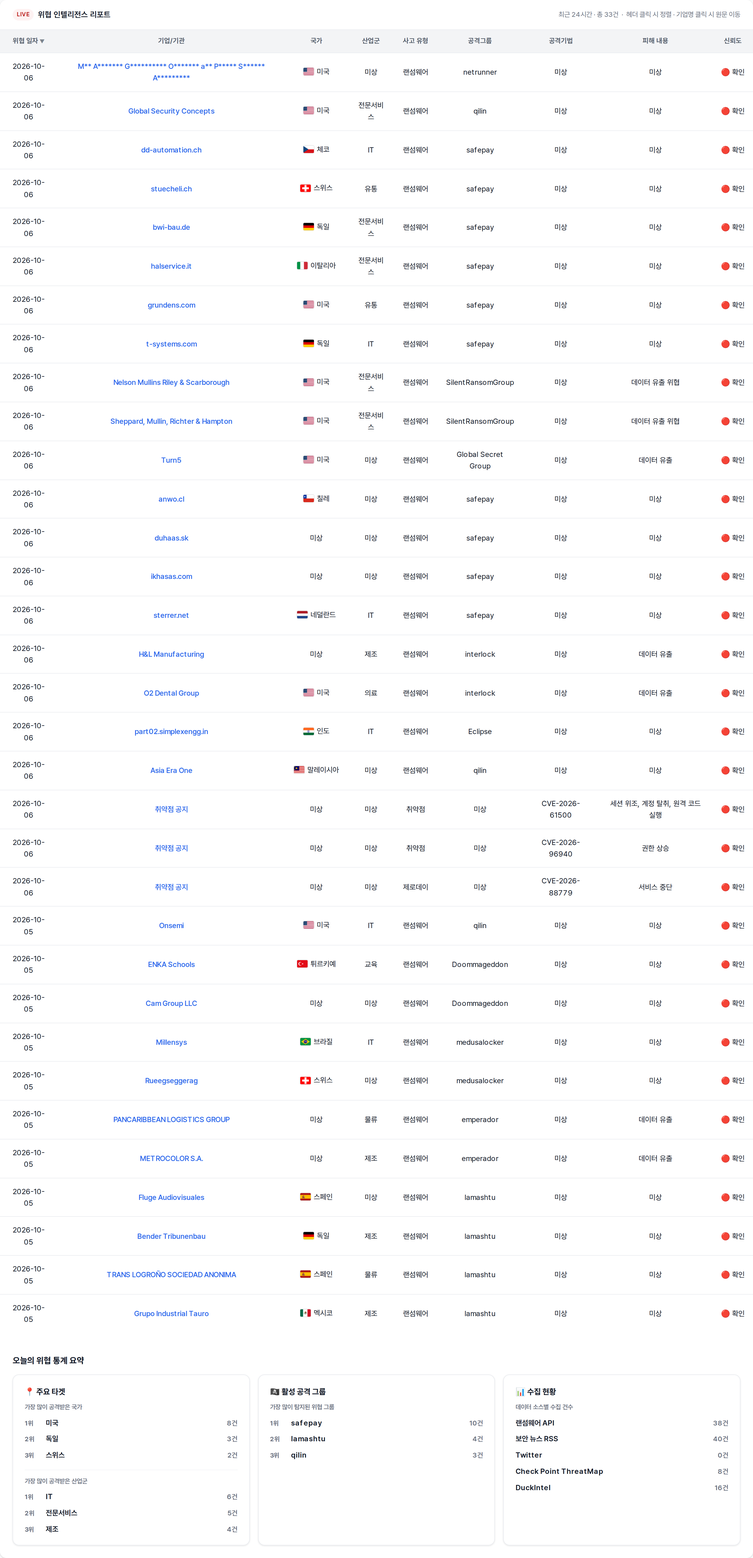
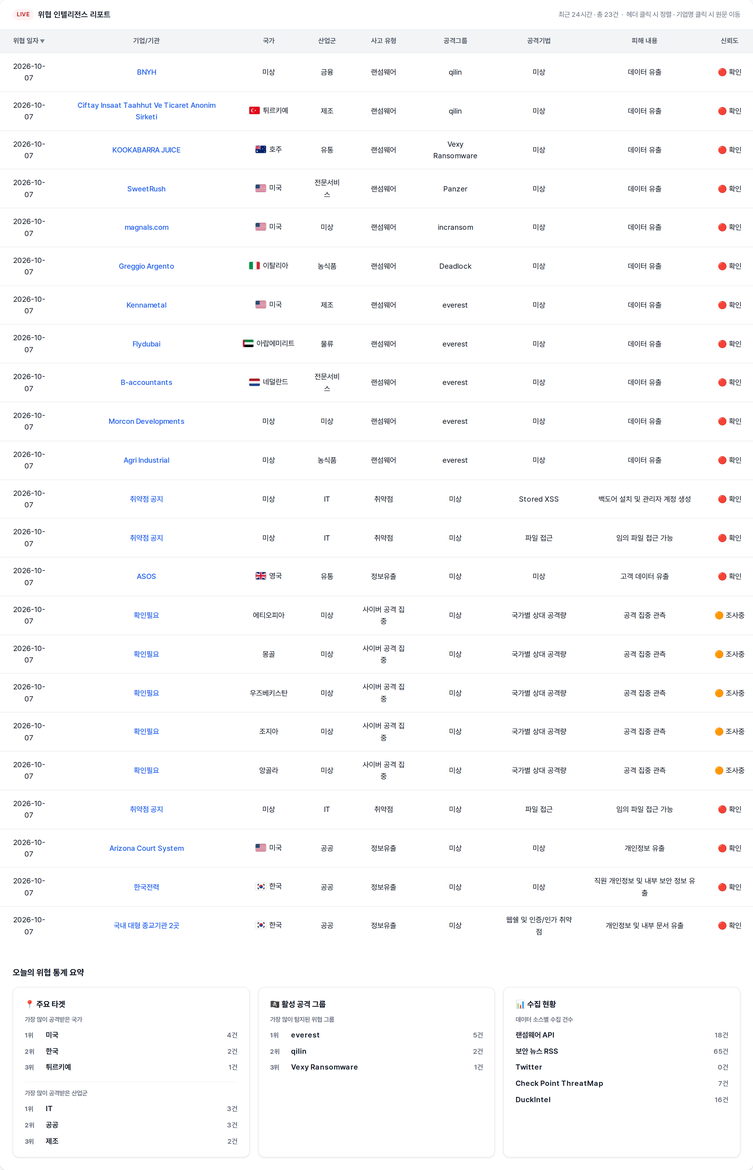
deploy: 9c533ad8fcaa3f846a31aadab046301a26f1192c

diff --git a/index.html b/index.html
@@ -3,7 +3,7 @@
 <head>
   <meta charset="UTF-8" />
   <meta name="viewport" content="width=device-width, initial-scale=1.0" />
-  <title>🚨 2026년 10월 06일 국내/해외 사이버 위협 현황</title>
+  <title>🚨 2026년 10월 07일 국내/해외 사이버 위협 현황</title>
   <link rel="preconnect" href="https://cdn.jsdelivr.net" />
   <link href="https://cdn.jsdelivr.net/gh/orioncactus/pretendard/dist/web/static/pretendard.css" rel="stylesheet" />
   <style>
@@ -253,7 +253,7 @@
 </head>
 <body>
   <div class="page-header">
-    <h1 class="page-title">🚨 2026년 10월 06일 국내/해외 사이버 위협 현황</h1>
+    <h1 class="page-title">🚨 2026년 10월 07일 국내/해외 사이버 위협 현황</h1>
   </div>
 
   <div class="dashboard">
@@ -261,45 +261,35 @@
     <div class="card-header">
       <span class="badge">LIVE</span>
       <span class="card-title">위협 인텔리전스 리포트</span>
-      <span class="card-count">최근 24시간 · 총 33건 &nbsp;·&nbsp; 헤더 클릭 시 정렬 · 기업명 클릭 시 원문 이동</span>
+      <span class="card-count">최근 24시간 · 총 23건 &nbsp;·&nbsp; 헤더 클릭 시 정렬 · 기업명 클릭 시 원문 이동</span>
     </div>
     <div class="table-wrap" style="overflow-x: auto; -webkit-overflow-scrolling: touch;">
       <table id="threat-table">
         <thead><tr><th onclick="sortTable(0)" data-col="0" class="sort-desc">위협 일자</th><th onclick="sortTable(1)" data-col="1">기업/기관</th><th onclick="sortTable(2)" data-col="2">국가</th><th onclick="sortTable(3)" data-col="3">산업군</th><th onclick="sortTable(4)" data-col="4">사고 유형</th><th onclick="sortTable(5)" data-col="5">공격그룹</th><th onclick="sortTable(6)" data-col="6">공격기법</th><th onclick="sortTable(7)" data-col="7">피해 내용</th><th onclick="sortTable(8)" data-col="8">신뢰도</th></tr></thead>
         <tbody>
-<tr><td>2026-10-06</td><td><a href="https://www.ransomware.live/id/TSoqIEEqKioqKioqIEcqKioqKioqKioqIE8qKioqKioqIGEqKiBQKioqKiogUyoqKioqKiBBKioqKioqKioqQG5ldHJ1bm5lcg==" target="_blank" rel="noopener noreferrer">M** A******* G********** O******* a** P***** S****** A*********</a></td><td class="country"><span class="country-cell"><img class="flag" src="https://flagcdn.com/w40/us.png" alt="미국" width="20" height="14" />미국</span></td><td>미상</td><td>랜섬웨어</td><td>netrunner</td><td>미상</td><td>미상</td><td>🔴 확인</td></tr>
-<tr><td>2026-10-06</td><td><a href="https://www.ransomware.live/id/R2xvYmFsIFNlY3VyaXR5IENvbmNlcHRzQHFpbGlu" target="_blank" rel="noopener noreferrer">Global Security Concepts</a></td><td class="country"><span class="country-cell"><img class="flag" src="https://flagcdn.com/w40/us.png" alt="미국" width="20" height="14" />미국</span></td><td>전문서비스</td><td>랜섬웨어</td><td>qilin</td><td>미상</td><td>미상</td><td>🔴 확인</td></tr>
-<tr><td>2026-10-06</td><td><a href="https://www.ransomware.live/id/ZGQtYXV0b21hdGlvbi5jaEBzYWZlcGF5" target="_blank" rel="noopener noreferrer">dd-automation.ch</a></td><td class="country"><span class="country-cell"><img class="flag" src="https://flagcdn.com/w40/cz.png" alt="체코" width="20" height="14" />체코</span></td><td>IT</td><td>랜섬웨어</td><td>safepay</td><td>미상</td><td>미상</td><td>🔴 확인</td></tr>
-<tr><td>2026-10-06</td><td><a href="https://www.ransomware.live/id/c3R1ZWNoZWxpLmNoQHNhZmVwYXk=" target="_blank" rel="noopener noreferrer">stuecheli.ch</a></td><td class="country"><span class="country-cell"><img class="flag" src="https://flagcdn.com/w40/ch.png" alt="스위스" width="20" height="14" />스위스</span></td><td>유통</td><td>랜섬웨어</td><td>safepay</td><td>미상</td><td>미상</td><td>🔴 확인</td></tr>
-<tr><td>2026-10-06</td><td><a href="https://www.ransomware.live/id/YndpLWJhdS5kZUBzYWZlcGF5" target="_blank" rel="noopener noreferrer">bwi-bau.de</a></td><td class="country"><span class="country-cell"><img class="flag" src="https://flagcdn.com/w40/de.png" alt="독일" width="20" height="14" />독일</span></td><td>전문서비스</td><td>랜섬웨어</td><td>safepay</td><td>미상</td><td>미상</td><td>🔴 확인</td></tr>
-<tr><td>2026-10-06</td><td><a href="https://www.ransomware.live/id/aGFsc2VydmljZS5pdEBzYWZlcGF5" target="_blank" rel="noopener noreferrer">halservice.it</a></td><td class="country"><span class="country-cell"><img class="flag" src="https://flagcdn.com/w40/it.png" alt="이탈리아" width="20" height="14" />이탈리아</span></td><td>전문서비스</td><td>랜섬웨어</td><td>safepay</td><td>미상</td><td>미상</td><td>🔴 확인</td></tr>
-<tr><td>2026-10-06</td><td><a href="https://www.ransomware.live/id/Z3J1bmRlbnMuY29tQHNhZmVwYXk=" target="_blank" rel="noopener noreferrer">grundens.com</a></td><td class="country"><span class="country-cell"><img class="flag" src="https://flagcdn.com/w40/us.png" alt="미국" width="20" height="14" />미국</span></td><td>유통</td><td>랜섬웨어</td><td>safepay</td><td>미상</td><td>미상</td><td>🔴 확인</td></tr>
-<tr><td>2026-10-06</td><td><a href="https://www.ransomware.live/id/dC1zeXN0ZW1zLmNvbUBzYWZlcGF5" target="_blank" rel="noopener noreferrer">t-systems.com</a></td><td class="country"><span class="country-cell"><img class="flag" src="https://flagcdn.com/w40/de.png" alt="독일" width="20" height="14" />독일</span></td><td>IT</td><td>랜섬웨어</td><td>safepay</td><td>미상</td><td>미상</td><td>🔴 확인</td></tr>
-<tr><td>2026-10-06</td><td><a href="https://www.ransomware.live/id/TmVsc29uIE11bGxpbnMgUmlsZXkgJiBTY2FyYm9yb3VnaEBTaWxlbnRSYW5zb21Hcm91cA==" target="_blank" rel="noopener noreferrer">Nelson Mullins Riley &amp; Scarborough</a></td><td class="country"><span class="country-cell"><img class="flag" src="https://flagcdn.com/w40/us.png" alt="미국" width="20" height="14" />미국</span></td><td>전문서비스</td><td>랜섬웨어</td><td>SilentRansomGroup</td><td>미상</td><td>데이터 유출 위협</td><td>🔴 확인</td></tr>
-<tr><td>2026-10-06</td><td><a href="https://www.ransomware.live/id/U2hlcHBhcmQsIE11bGxpbiwgUmljaHRlciAmIEhhbXB0b25AU2lsZW50UmFuc29tR3JvdXA=" target="_blank" rel="noopener noreferrer">Sheppard, Mullin, Richter &amp; Hampton</a></td><td class="country"><span class="country-cell"><img class="flag" src="https://flagcdn.com/w40/us.png" alt="미국" width="20" height="14" />미국</span></td><td>전문서비스</td><td>랜섬웨어</td><td>SilentRansomGroup</td><td>미상</td><td>데이터 유출 위협</td><td>🔴 확인</td></tr>
-<tr><td>2026-10-06</td><td><a href="https://www.ransomware.live/id/VHVybjVAR2xvYmFsIFNlY3JldCBHcm91cA==" target="_blank" rel="noopener noreferrer">Turn5</a></td><td class="country"><span class="country-cell"><img class="flag" src="https://flagcdn.com/w40/us.png" alt="미국" width="20" height="14" />미국</span></td><td>미상</td><td>랜섬웨어</td><td>Global Secret Group</td><td>미상</td><td>데이터 유출</td><td>🔴 확인</td></tr>
-<tr><td>2026-10-06</td><td><a href="https://www.ransomware.live/id/YW53by5jbEBzYWZlcGF5" target="_blank" rel="noopener noreferrer">anwo.cl</a></td><td class="country"><span class="country-cell"><img class="flag" src="https://flagcdn.com/w40/cl.png" alt="칠레" width="20" height="14" />칠레</span></td><td>미상</td><td>랜섬웨어</td><td>safepay</td><td>미상</td><td>미상</td><td>🔴 확인</td></tr>
-<tr><td>2026-10-06</td><td><a href="https://www.ransomware.live/id/ZHVoYWFzLnNrQHNhZmVwYXk=" target="_blank" rel="noopener noreferrer">duhaas.sk</a></td><td class="country"><span class="country-cell">미상</span></td><td>미상</td><td>랜섬웨어</td><td>safepay</td><td>미상</td><td>미상</td><td>🔴 확인</td></tr>
-<tr><td>2026-10-06</td><td><a href="https://www.ransomware.live/id/aWtoYXNhcy5jb21Ac2FmZXBheQ==" target="_blank" rel="noopener noreferrer">ikhasas.com</a></td><td class="country"><span class="country-cell">미상</span></td><td>미상</td><td>랜섬웨어</td><td>safepay</td><td>미상</td><td>미상</td><td>🔴 확인</td></tr>
-<tr><td>2026-10-06</td><td><a href="https://www.ransomware.live/id/c3RlcnJlci5uZXRAc2FmZXBheQ==" target="_blank" rel="noopener noreferrer">sterrer.net</a></td><td class="country"><span class="country-cell"><img class="flag" src="https://flagcdn.com/w40/nl.png" alt="네덜란드" width="20" height="14" />네덜란드</span></td><td>IT</td><td>랜섬웨어</td><td>safepay</td><td>미상</td><td>미상</td><td>🔴 확인</td></tr>
-<tr><td>2026-10-06</td><td><a href="https://www.ransomware.live/id/SCZMIE1hbnVmYWN0dXJpbmdAaW50ZXJsb2Nr" target="_blank" rel="noopener noreferrer">H&amp;L Manufacturing</a></td><td class="country"><span class="country-cell">미상</span></td><td>제조</td><td>랜섬웨어</td><td>interlock</td><td>미상</td><td>데이터 유출</td><td>🔴 확인</td></tr>
-<tr><td>2026-10-06</td><td><a href="https://www.ransomware.live/id/TzIgRGVudGFsIEdyb3VwQGludGVybG9jaw==" target="_blank" rel="noopener noreferrer">O2 Dental Group</a></td><td class="country"><span class="country-cell"><img class="flag" src="https://flagcdn.com/w40/us.png" alt="미국" width="20" height="14" />미국</span></td><td>의료</td><td>랜섬웨어</td><td>interlock</td><td>미상</td><td>데이터 유출</td><td>🔴 확인</td></tr>
-<tr><td>2026-10-06</td><td><a href="https://www.ransomware.live/id/cGFydDAyLnNpbXBsZXhlbmdnLmluQEVjbGlwc2U=" target="_blank" rel="noopener noreferrer">part02.simplexengg.in</a></td><td class="country"><span class="country-cell"><img class="flag" src="https://flagcdn.com/w40/in.png" alt="인도" width="20" height="14" />인도</span></td><td>IT</td><td>랜섬웨어</td><td>Eclipse</td><td>미상</td><td>미상</td><td>🔴 확인</td></tr>
-<tr><td>2026-10-06</td><td><a href="https://www.ransomware.live/id/QXNpYSBFcmEgT25lQHFpbGlu" target="_blank" rel="noopener noreferrer">Asia Era One</a></td><td class="country"><span class="country-cell"><img class="flag" src="https://flagcdn.com/w40/my.png" alt="말레이시아" width="20" height="14" />말레이시아</span></td><td>미상</td><td>랜섬웨어</td><td>qilin</td><td>미상</td><td>미상</td><td>🔴 확인</td></tr>
-<tr><td>2026-10-06</td><td><a href="https://www.bleepingcomputer.com/news/security/rejetto-hfs-servers-now-actively-scanned-for-critical-rce-flaw/" target="_blank" rel="noopener noreferrer">취약점 공지</a></td><td class="country"><span class="country-cell">미상</span></td><td>미상</td><td>취약점</td><td>미상</td><td>CVE-2026-61500</td><td>세션 위조, 계정 탈취, 원격 코드 실행</td><td>🔴 확인</td></tr>
-<tr><td>2026-10-06</td><td><a href="https://thehackernews.com/2026/10/microsoft-exchange-flaw-lets.html" target="_blank" rel="noopener noreferrer">취약점 공지</a></td><td class="country"><span class="country-cell">미상</span></td><td>미상</td><td>취약점</td><td>미상</td><td>CVE-2026-96940</td><td>권한 상승</td><td>🔴 확인</td></tr>
-<tr><td>2026-10-06</td><td><a href="https://therecord.media/us-australia-warn-of-latest-citrix-vulnerability" target="_blank" rel="noopener noreferrer">취약점 공지</a></td><td class="country"><span class="country-cell">미상</span></td><td>미상</td><td>제로데이</td><td>미상</td><td>CVE-2026-88779</td><td>서비스 중단</td><td>🔴 확인</td></tr>
-<tr><td>2026-10-05</td><td><a href="https://www.ransomware.live/id/T25zZW1pQHFpbGlu" target="_blank" rel="noopener noreferrer">Onsemi</a></td><td class="country"><span class="country-cell"><img class="flag" src="https://flagcdn.com/w40/us.png" alt="미국" width="20" height="14" />미국</span></td><td>IT</td><td>랜섬웨어</td><td>qilin</td><td>미상</td><td>미상</td><td>🔴 확인</td></tr>
-<tr><td>2026-10-05</td><td><a href="https://www.ransomware.live/id/RU5LQSBTY2hvb2xzQERvb21tYWdlZGRvbg==" target="_blank" rel="noopener noreferrer">ENKA Schools</a></td><td class="country"><span class="country-cell"><img class="flag" src="https://flagcdn.com/w40/tr.png" alt="튀르키예" width="20" height="14" />튀르키예</span></td><td>교육</td><td>랜섬웨어</td><td>Doommageddon</td><td>미상</td><td>미상</td><td>🔴 확인</td></tr>
-<tr><td>2026-10-05</td><td><a href="https://www.ransomware.live/id/Q2FtIEdyb3VwIExMQ0BEb29tbWFnZWRkb24=" target="_blank" rel="noopener noreferrer">Cam Group LLC</a></td><td class="country"><span class="country-cell">미상</span></td><td>미상</td><td>랜섬웨어</td><td>Doommageddon</td><td>미상</td><td>미상</td><td>🔴 확인</td></tr>
-<tr><td>2026-10-05</td><td><a href="https://www.ransomware.live/id/TWlsbGVuc3lzQG1lZHVzYWxvY2tlcg==" target="_blank" rel="noopener noreferrer">Millensys</a></td><td class="country"><span class="country-cell"><img class="flag" src="https://flagcdn.com/w40/br.png" alt="브라질" width="20" height="14" />브라질</span></td><td>IT</td><td>랜섬웨어</td><td>medusalocker</td><td>미상</td><td>미상</td><td>🔴 확인</td></tr>
-<tr><td>2026-10-05</td><td><a href="https://www.ransomware.live/id/UnVlZWdzZWdnZXJhZ0BtZWR1c2Fsb2NrZXI=" target="_blank" rel="noopener noreferrer">Rueegseggerag</a></td><td class="country"><span class="country-cell"><img class="flag" src="https://flagcdn.com/w40/ch.png" alt="스위스" width="20" height="14" />스위스</span></td><td>미상</td><td>랜섬웨어</td><td>medusalocker</td><td>미상</td><td>미상</td><td>🔴 확인</td></tr>
-<tr><td>2026-10-05</td><td><a href="https://www.ransomware.live/id/UEFOQ0FSSUJCRUFOIExPR0lTVElDUyBHUk9VUEBlbXBlcmFkb3I=" target="_blank" rel="noopener noreferrer">PANCARIBBEAN LOGISTICS GROUP</a></td><td class="country"><span class="country-cell">미상</span></td><td>물류</td><td>랜섬웨어</td><td>emperador</td><td>미상</td><td>데이터 유출</td><td>🔴 확인</td></tr>
-<tr><td>2026-10-05</td><td><a href="https://www.ransomware.live/id/TUVUUk9DT0xPUiBTLkEuQGVtcGVyYWRvcg==" target="_blank" rel="noopener noreferrer">METROCOLOR S.A.</a></td><td class="country"><span class="country-cell">미상</span></td><td>제조</td><td>랜섬웨어</td><td>emperador</td><td>미상</td><td>데이터 유출</td><td>🔴 확인</td></tr>
-<tr><td>2026-10-05</td><td><a href="https://www.ransomware.live/id/Rmx1Z2UgQXVkaW92aXN1YWxlc0BsYW1hc2h0dQ==" target="_blank" rel="noopener noreferrer">Fluge Audiovisuales</a></td><td class="country"><span class="country-cell"><img class="flag" src="https://flagcdn.com/w40/es.png" alt="스페인" width="20" height="14" />스페인</span></td><td>미상</td><td>랜섬웨어</td><td>lamashtu</td><td>미상</td><td>미상</td><td>🔴 확인</td></tr>
-<tr><td>2026-10-05</td><td><a href="https://www.ransomware.live/id/QmVuZGVyIFRyaWJ1bmVuYmF1QGxhbWFzaHR1" target="_blank" rel="noopener noreferrer">Bender Tribunenbau</a></td><td class="country"><span class="country-cell"><img class="flag" src="https://flagcdn.com/w40/de.png" alt="독일" width="20" height="14" />독일</span></td><td>제조</td><td>랜섬웨어</td><td>lamashtu</td><td>미상</td><td>미상</td><td>🔴 확인</td></tr>
-<tr><td>2026-10-05</td><td><a href="https://www.ransomware.live/id/VFJBTlMgTE9HUk/DkU8gU09DSUVEQUQgQU5PTklNQUBsYW1hc2h0dQ==" target="_blank" rel="noopener noreferrer">TRANS LOGROÑO SOCIEDAD ANONIMA</a></td><td class="country"><span class="country-cell"><img class="flag" src="https://flagcdn.com/w40/es.png" alt="스페인" width="20" height="14" />스페인</span></td><td>물류</td><td>랜섬웨어</td><td>lamashtu</td><td>미상</td><td>미상</td><td>🔴 확인</td></tr>
-<tr><td>2026-10-05</td><td><a href="https://www.ransomware.live/id/R3J1cG8gSW5kdXN0cmlhbCBUYXVyb0BsYW1hc2h0dQ==" target="_blank" rel="noopener noreferrer">Grupo Industrial Tauro</a></td><td class="country"><span class="country-cell"><img class="flag" src="https://flagcdn.com/w40/mx.png" alt="멕시코" width="20" height="14" />멕시코</span></td><td>제조</td><td>랜섬웨어</td><td>lamashtu</td><td>미상</td><td>미상</td><td>🔴 확인</td></tr>
+<tr><td>2026-10-07</td><td><a href="https://www.ransomware.live/id/Qk5ZSEBxaWxpbg==" target="_blank" rel="noopener noreferrer">BNYH</a></td><td class="country"><span class="country-cell">미상</span></td><td>금융</td><td>랜섬웨어</td><td>qilin</td><td>미상</td><td>데이터 유출</td><td>🔴 확인</td></tr>
+<tr><td>2026-10-07</td><td><a href="https://www.ransomware.live/id/Q2lmdGF5IEluc2FhdCBUYWFoaHV0IFZlIFRpY2FyZXQgQW5vbmltIFNpcmtldGlAcWlsaW4=" target="_blank" rel="noopener noreferrer">Ciftay Insaat Taahhut Ve Ticaret Anonim Sirketi</a></td><td class="country"><span class="country-cell"><img class="flag" src="https://flagcdn.com/w40/tr.png" alt="튀르키예" width="20" height="14" />튀르키예</span></td><td>제조</td><td>랜섬웨어</td><td>qilin</td><td>미상</td><td>데이터 유출</td><td>🔴 확인</td></tr>
+<tr><td>2026-10-07</td><td><a href="https://www.ransomware.live/id/S09PS0FCQVJSQSBKVUlDRUBWZXh5IFJhbnNvbXdhcmU=" target="_blank" rel="noopener noreferrer">KOOKABARRA JUICE</a></td><td class="country"><span class="country-cell"><img class="flag" src="https://flagcdn.com/w40/au.png" alt="호주" width="20" height="14" />호주</span></td><td>유통</td><td>랜섬웨어</td><td>Vexy Ransomware</td><td>미상</td><td>데이터 유출</td><td>🔴 확인</td></tr>
+<tr><td>2026-10-07</td><td><a href="https://www.ransomware.live/id/U3dlZXRSdXNoQFBhbnplcg==" target="_blank" rel="noopener noreferrer">SweetRush</a></td><td class="country"><span class="country-cell"><img class="flag" src="https://flagcdn.com/w40/us.png" alt="미국" width="20" height="14" />미국</span></td><td>전문서비스</td><td>랜섬웨어</td><td>Panzer</td><td>미상</td><td>데이터 유출</td><td>🔴 확인</td></tr>
+<tr><td>2026-10-07</td><td><a href="https://www.ransomware.live/id/bWFnbmFscy5jb21AaW5jcmFuc29t" target="_blank" rel="noopener noreferrer">magnals.com</a></td><td class="country"><span class="country-cell"><img class="flag" src="https://flagcdn.com/w40/us.png" alt="미국" width="20" height="14" />미국</span></td><td>미상</td><td>랜섬웨어</td><td>incransom</td><td>미상</td><td>데이터 유출</td><td>🔴 확인</td></tr>
+<tr><td>2026-10-07</td><td><a href="https://www.ransomware.live/id/R3JlZ2dpbyBBcmdlbnRvQERlYWRsb2Nr" target="_blank" rel="noopener noreferrer">Greggio Argento</a></td><td class="country"><span class="country-cell"><img class="flag" src="https://flagcdn.com/w40/it.png" alt="이탈리아" width="20" height="14" />이탈리아</span></td><td>농식품</td><td>랜섬웨어</td><td>Deadlock</td><td>미상</td><td>데이터 유출</td><td>🔴 확인</td></tr>
+<tr><td>2026-10-07</td><td><a href="https://www.ransomware.live/id/S2VubmFtZXRhbEBldmVyZXN0" target="_blank" rel="noopener noreferrer">Kennametal</a></td><td class="country"><span class="country-cell"><img class="flag" src="https://flagcdn.com/w40/us.png" alt="미국" width="20" height="14" />미국</span></td><td>제조</td><td>랜섬웨어</td><td>everest</td><td>미상</td><td>데이터 유출</td><td>🔴 확인</td></tr>
+<tr><td>2026-10-07</td><td><a href="https://www.ransomware.live/id/Rmx5ZHViYWlAZXZlcmVzdA==" target="_blank" rel="noopener noreferrer">Flydubai</a></td><td class="country"><span class="country-cell"><img class="flag" src="https://flagcdn.com/w40/ae.png" alt="아랍에미리트" width="20" height="14" />아랍에미리트</span></td><td>물류</td><td>랜섬웨어</td><td>everest</td><td>미상</td><td>데이터 유출</td><td>🔴 확인</td></tr>
+<tr><td>2026-10-07</td><td><a href="https://www.ransomware.live/id/Qi1hY2NvdW50YW50c0BldmVyZXN0" target="_blank" rel="noopener noreferrer">B-accountants</a></td><td class="country"><span class="country-cell"><img class="flag" src="https://flagcdn.com/w40/nl.png" alt="네덜란드" width="20" height="14" />네덜란드</span></td><td>전문서비스</td><td>랜섬웨어</td><td>everest</td><td>미상</td><td>데이터 유출</td><td>🔴 확인</td></tr>
+<tr><td>2026-10-07</td><td><a href="https://www.ransomware.live/id/TW9yY29uIERldmVsb3BtZW50c0BldmVyZXN0" target="_blank" rel="noopener noreferrer">Morcon Developments</a></td><td class="country"><span class="country-cell">미상</span></td><td>미상</td><td>랜섬웨어</td><td>everest</td><td>미상</td><td>데이터 유출</td><td>🔴 확인</td></tr>
+<tr><td>2026-10-07</td><td><a href="https://www.ransomware.live/id/QWdyaSBJbmR1c3RyaWFsQGV2ZXJlc3Q=" target="_blank" rel="noopener noreferrer">Agri Industrial</a></td><td class="country"><span class="country-cell">미상</span></td><td>농식품</td><td>랜섬웨어</td><td>everest</td><td>미상</td><td>데이터 유출</td><td>🔴 확인</td></tr>
+<tr><td>2026-10-07</td><td><a href="https://www.bleepingcomputer.com/news/security/ninja-forms-plugin-flaw-exploited-to-hack-wordpress-sites/" target="_blank" rel="noopener noreferrer">취약점 공지</a></td><td class="country"><span class="country-cell">미상</span></td><td>IT</td><td>취약점</td><td>미상</td><td>Stored XSS</td><td>백도어 설치 및 관리자 계정 생성</td><td>🔴 확인</td></tr>
+<tr><td>2026-10-07</td><td><a href="https://www.bleepingcomputer.com/news/security/atlassian-warns-of-critical-file-access-flaw-in-jira-confluence/" target="_blank" rel="noopener noreferrer">취약점 공지</a></td><td class="country"><span class="country-cell">미상</span></td><td>IT</td><td>취약점</td><td>미상</td><td>파일 접근</td><td>임의 파일 접근 가능</td><td>🔴 확인</td></tr>
+<tr><td>2026-10-07</td><td><a href="https://www.bleepingcomputer.com/news/security/asos-confirms-data-breach-after-hacked-in-app-notifications/" target="_blank" rel="noopener noreferrer">ASOS</a></td><td class="country"><span class="country-cell"><img class="flag" src="https://flagcdn.com/w40/gb.png" alt="영국" width="20" height="14" />영국</span></td><td>유통</td><td>정보유출</td><td>미상</td><td>미상</td><td>고객 데이터 유출</td><td>🔴 확인</td></tr>
+<tr><td>2026-10-07</td><td><a href="https://threatmap.checkpoint.com/" target="_blank" rel="noopener noreferrer">확인필요</a></td><td class="country"><span class="country-cell">에티오피아</span></td><td>미상</td><td>사이버 공격 집중</td><td>미상</td><td>국가별 상대 공격량</td><td>공격 집중 관측</td><td>🟠 조사중</td></tr>
+<tr><td>2026-10-07</td><td><a href="https://threatmap.checkpoint.com/" target="_blank" rel="noopener noreferrer">확인필요</a></td><td class="country"><span class="country-cell">몽골</span></td><td>미상</td><td>사이버 공격 집중</td><td>미상</td><td>국가별 상대 공격량</td><td>공격 집중 관측</td><td>🟠 조사중</td></tr>
+<tr><td>2026-10-07</td><td><a href="https://threatmap.checkpoint.com/" target="_blank" rel="noopener noreferrer">확인필요</a></td><td class="country"><span class="country-cell">우즈베키스탄</span></td><td>미상</td><td>사이버 공격 집중</td><td>미상</td><td>국가별 상대 공격량</td><td>공격 집중 관측</td><td>🟠 조사중</td></tr>
+<tr><td>2026-10-07</td><td><a href="https://threatmap.checkpoint.com/" target="_blank" rel="noopener noreferrer">확인필요</a></td><td class="country"><span class="country-cell">조지아</span></td><td>미상</td><td>사이버 공격 집중</td><td>미상</td><td>국가별 상대 공격량</td><td>공격 집중 관측</td><td>🟠 조사중</td></tr>
+<tr><td>2026-10-07</td><td><a href="https://threatmap.checkpoint.com/" target="_blank" rel="noopener noreferrer">확인필요</a></td><td class="country"><span class="country-cell">앙골라</span></td><td>미상</td><td>사이버 공격 집중</td><td>미상</td><td>국가별 상대 공격량</td><td>공격 집중 관측</td><td>🟠 조사중</td></tr>
+<tr><td>2026-10-07</td><td><a href="https://thehackernews.com/2026/10/critical-atlassian-flaw-lets.html" target="_blank" rel="noopener noreferrer">취약점 공지</a></td><td class="country"><span class="country-cell">미상</span></td><td>IT</td><td>취약점</td><td>미상</td><td>파일 접근</td><td>임의 파일 접근 가능</td><td>🔴 확인</td></tr>
+<tr><td>2026-10-07</td><td><a href="https://www.securityweek.com/personal-information-for-over-1-million-people-stolen-in-a-cyberattack-on-arizonas-court-system/" target="_blank" rel="noopener noreferrer">Arizona Court System</a></td><td class="country"><span class="country-cell"><img class="flag" src="https://flagcdn.com/w40/us.png" alt="미국" width="20" height="14" />미국</span></td><td>공공</td><td>정보유출</td><td>미상</td><td>미상</td><td>개인정보 유출</td><td>🔴 확인</td></tr>
+<tr><td>2026-10-07</td><td><a href="https://www.dailysecu.com/news/articleView.html?idxno=208748" target="_blank" rel="noopener noreferrer">한국전력</a></td><td class="country"><span class="country-cell"><img class="flag" src="https://flagcdn.com/w40/kr.png" alt="한국" width="20" height="14" />한국</span></td><td>공공</td><td>정보유출</td><td>미상</td><td>미상</td><td>직원 개인정보 및 내부 보안 정보 유출</td><td>🔴 확인</td></tr>
+<tr><td>2026-10-07</td><td><a href="https://www.dailysecu.com/news/articleView.html?idxno=208758" target="_blank" rel="noopener noreferrer">국내 대형 종교기관 2곳</a></td><td class="country"><span class="country-cell"><img class="flag" src="https://flagcdn.com/w40/kr.png" alt="한국" width="20" height="14" />한국</span></td><td>공공</td><td>정보유출</td><td>미상</td><td>웹쉘 및 인증/인가 취약점</td><td>개인정보 및 내부 문서 유출</td><td>🔴 확인</td></tr>
         </tbody>
       </table>
     </div>
@@ -310,19 +300,19 @@
       <article class="stat-card">
         <h3 class="stat-title">📍 주요 타겟</h3>
         <p class="stat-subtitle">가장 많이 공격받은 국가</p>
-        <ol class="stat-list"><li><span class="stat-rank">1위</span><span class="stat-name">미국</span><span class="stat-count">8건</span></li><li><span class="stat-rank">2위</span><span class="stat-name">독일</span><span class="stat-count">3건</span></li><li><span class="stat-rank">3위</span><span class="stat-name">스위스</span><span class="stat-count">2건</span></li></ol>
+        <ol class="stat-list"><li><span class="stat-rank">1위</span><span class="stat-name">미국</span><span class="stat-count">4건</span></li><li><span class="stat-rank">2위</span><span class="stat-name">한국</span><span class="stat-count">2건</span></li><li><span class="stat-rank">3위</span><span class="stat-name">튀르키예</span><span class="stat-count">1건</span></li></ol>
         <p class="stat-subtitle stat-subtitle-gap">가장 많이 공격받은 산업군</p>
-        <ol class="stat-list"><li><span class="stat-rank">1위</span><span class="stat-name">IT</span><span class="stat-count">6건</span></li><li><span class="stat-rank">2위</span><span class="stat-name">전문서비스</span><span class="stat-count">5건</span></li><li><span class="stat-rank">3위</span><span class="stat-name">제조</span><span class="stat-count">4건</span></li></ol>
+        <ol class="stat-list"><li><span class="stat-rank">1위</span><span class="stat-name">IT</span><span class="stat-count">3건</span></li><li><span class="stat-rank">2위</span><span class="stat-name">공공</span><span class="stat-count">3건</span></li><li><span class="stat-rank">3위</span><span class="stat-name">제조</span><span class="stat-count">2건</span></li></ol>
       </article>
       <article class="stat-card">
         <h3 class="stat-title">🏴☠ 활성 공격 그룹</h3>
         <p class="stat-subtitle">가장 많이 탐지된 위협 그룹</p>
-        <ol class="stat-list"><li><span class="stat-rank">1위</span><span class="stat-name">safepay</span><span class="stat-count">10건</span></li><li><span class="stat-rank">2위</span><span class="stat-name">lamashtu</span><span class="stat-count">4건</span></li><li><span class="stat-rank">3위</span><span class="stat-name">qilin</span><span class="stat-count">3건</span></li></ol>
+        <ol class="stat-list"><li><span class="stat-rank">1위</span><span class="stat-name">everest</span><span class="stat-count">5건</span></li><li><span class="stat-rank">2위</span><span class="stat-name">qilin</span><span class="stat-count">2건</span></li><li><span class="stat-rank">3위</span><span class="stat-name">Vexy Ransomware</span><span class="stat-count">1건</span></li></ol>
       </article>
       <article class="stat-card">
         <h3 class="stat-title">📊 수집 현황</h3>
         <p class="stat-subtitle">데이터 소스별 수집 건수</p>
-        <ul class="stat-list stat-sources"><li><span class="stat-name">랜섬웨어 API</span><span class="stat-count">38건</span></li><li><span class="stat-name">보안 뉴스 RSS</span><span class="stat-count">40건</span></li><li><span class="stat-name">Twitter</span><span class="stat-count">0건</span></li><li><span class="stat-name">Check Point ThreatMap</span><span class="stat-count">8건</span></li><li><span class="stat-name">DuckIntel</span><span class="stat-count">16건</span></li></ul>
+        <ul class="stat-list stat-sources"><li><span class="stat-name">랜섬웨어 API</span><span class="stat-count">18건</span></li><li><span class="stat-name">보안 뉴스 RSS</span><span class="stat-count">65건</span></li><li><span class="stat-name">Twitter</span><span class="stat-count">0건</span></li><li><span class="stat-name">Check Point ThreatMap</span><span class="stat-count">7건</span></li><li><span class="stat-name">DuckIntel</span><span class="stat-count">16건</span></li></ul>
       </article>
     </div>
   </section>
